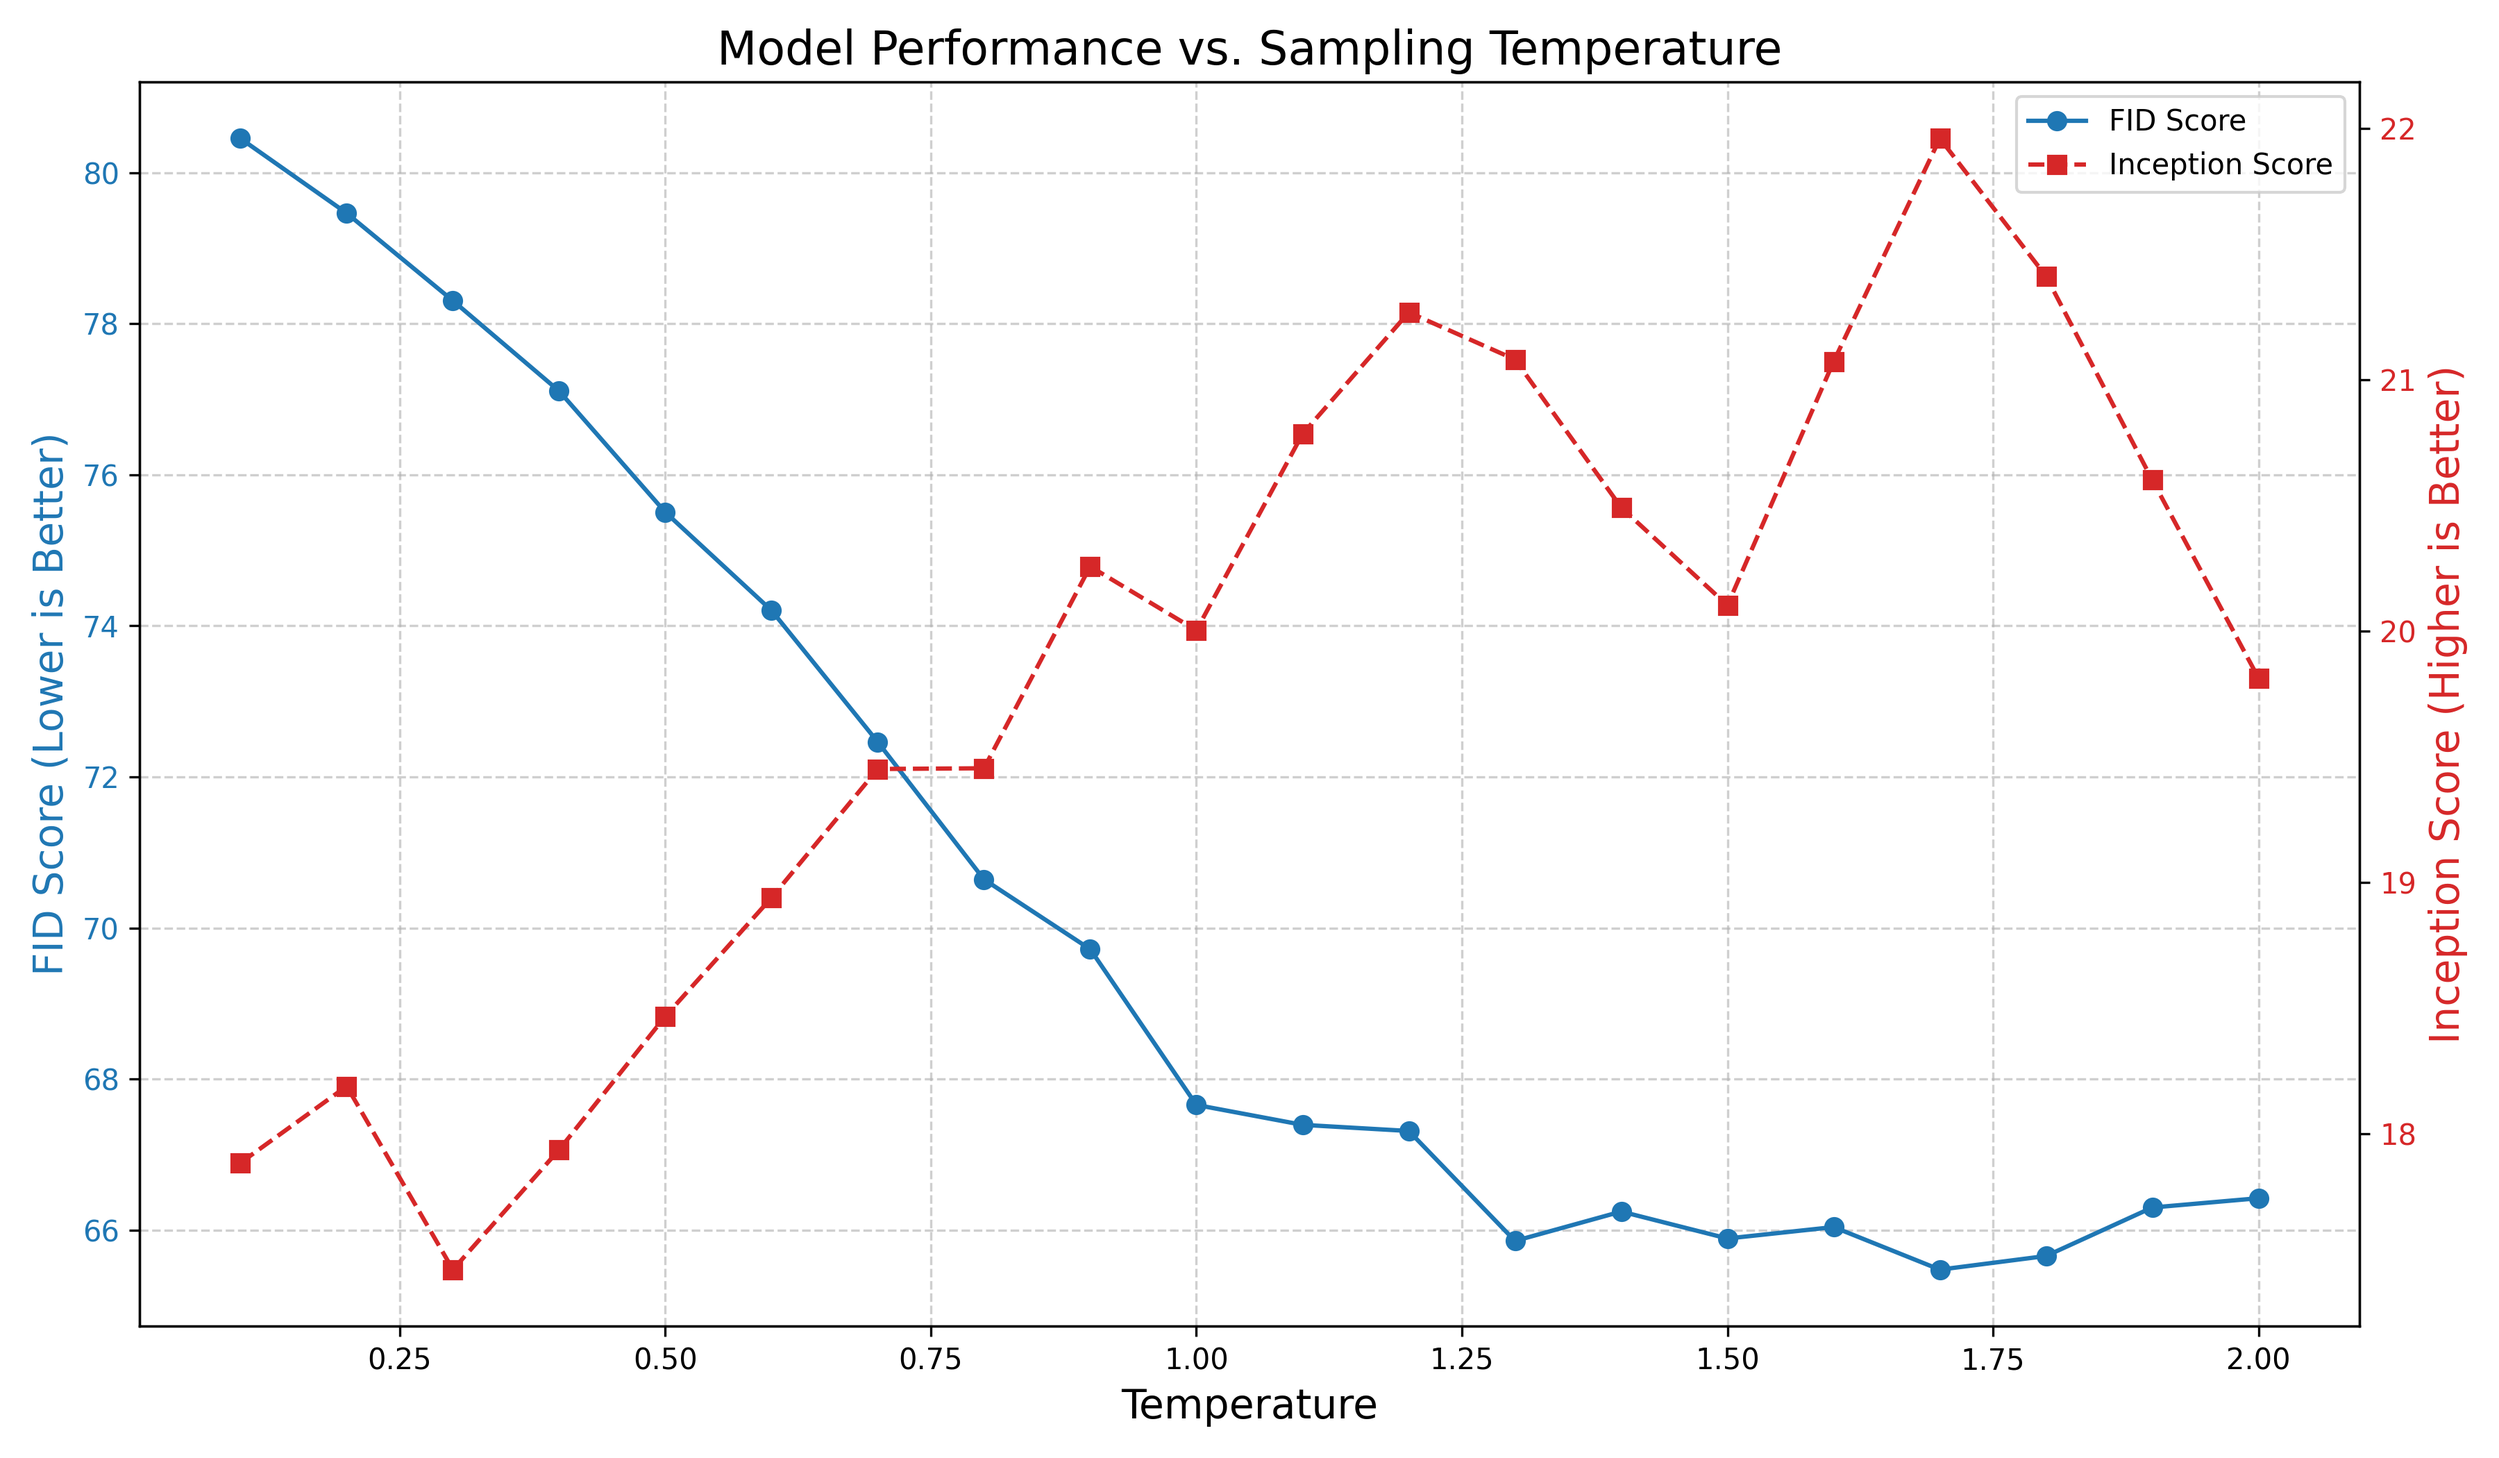
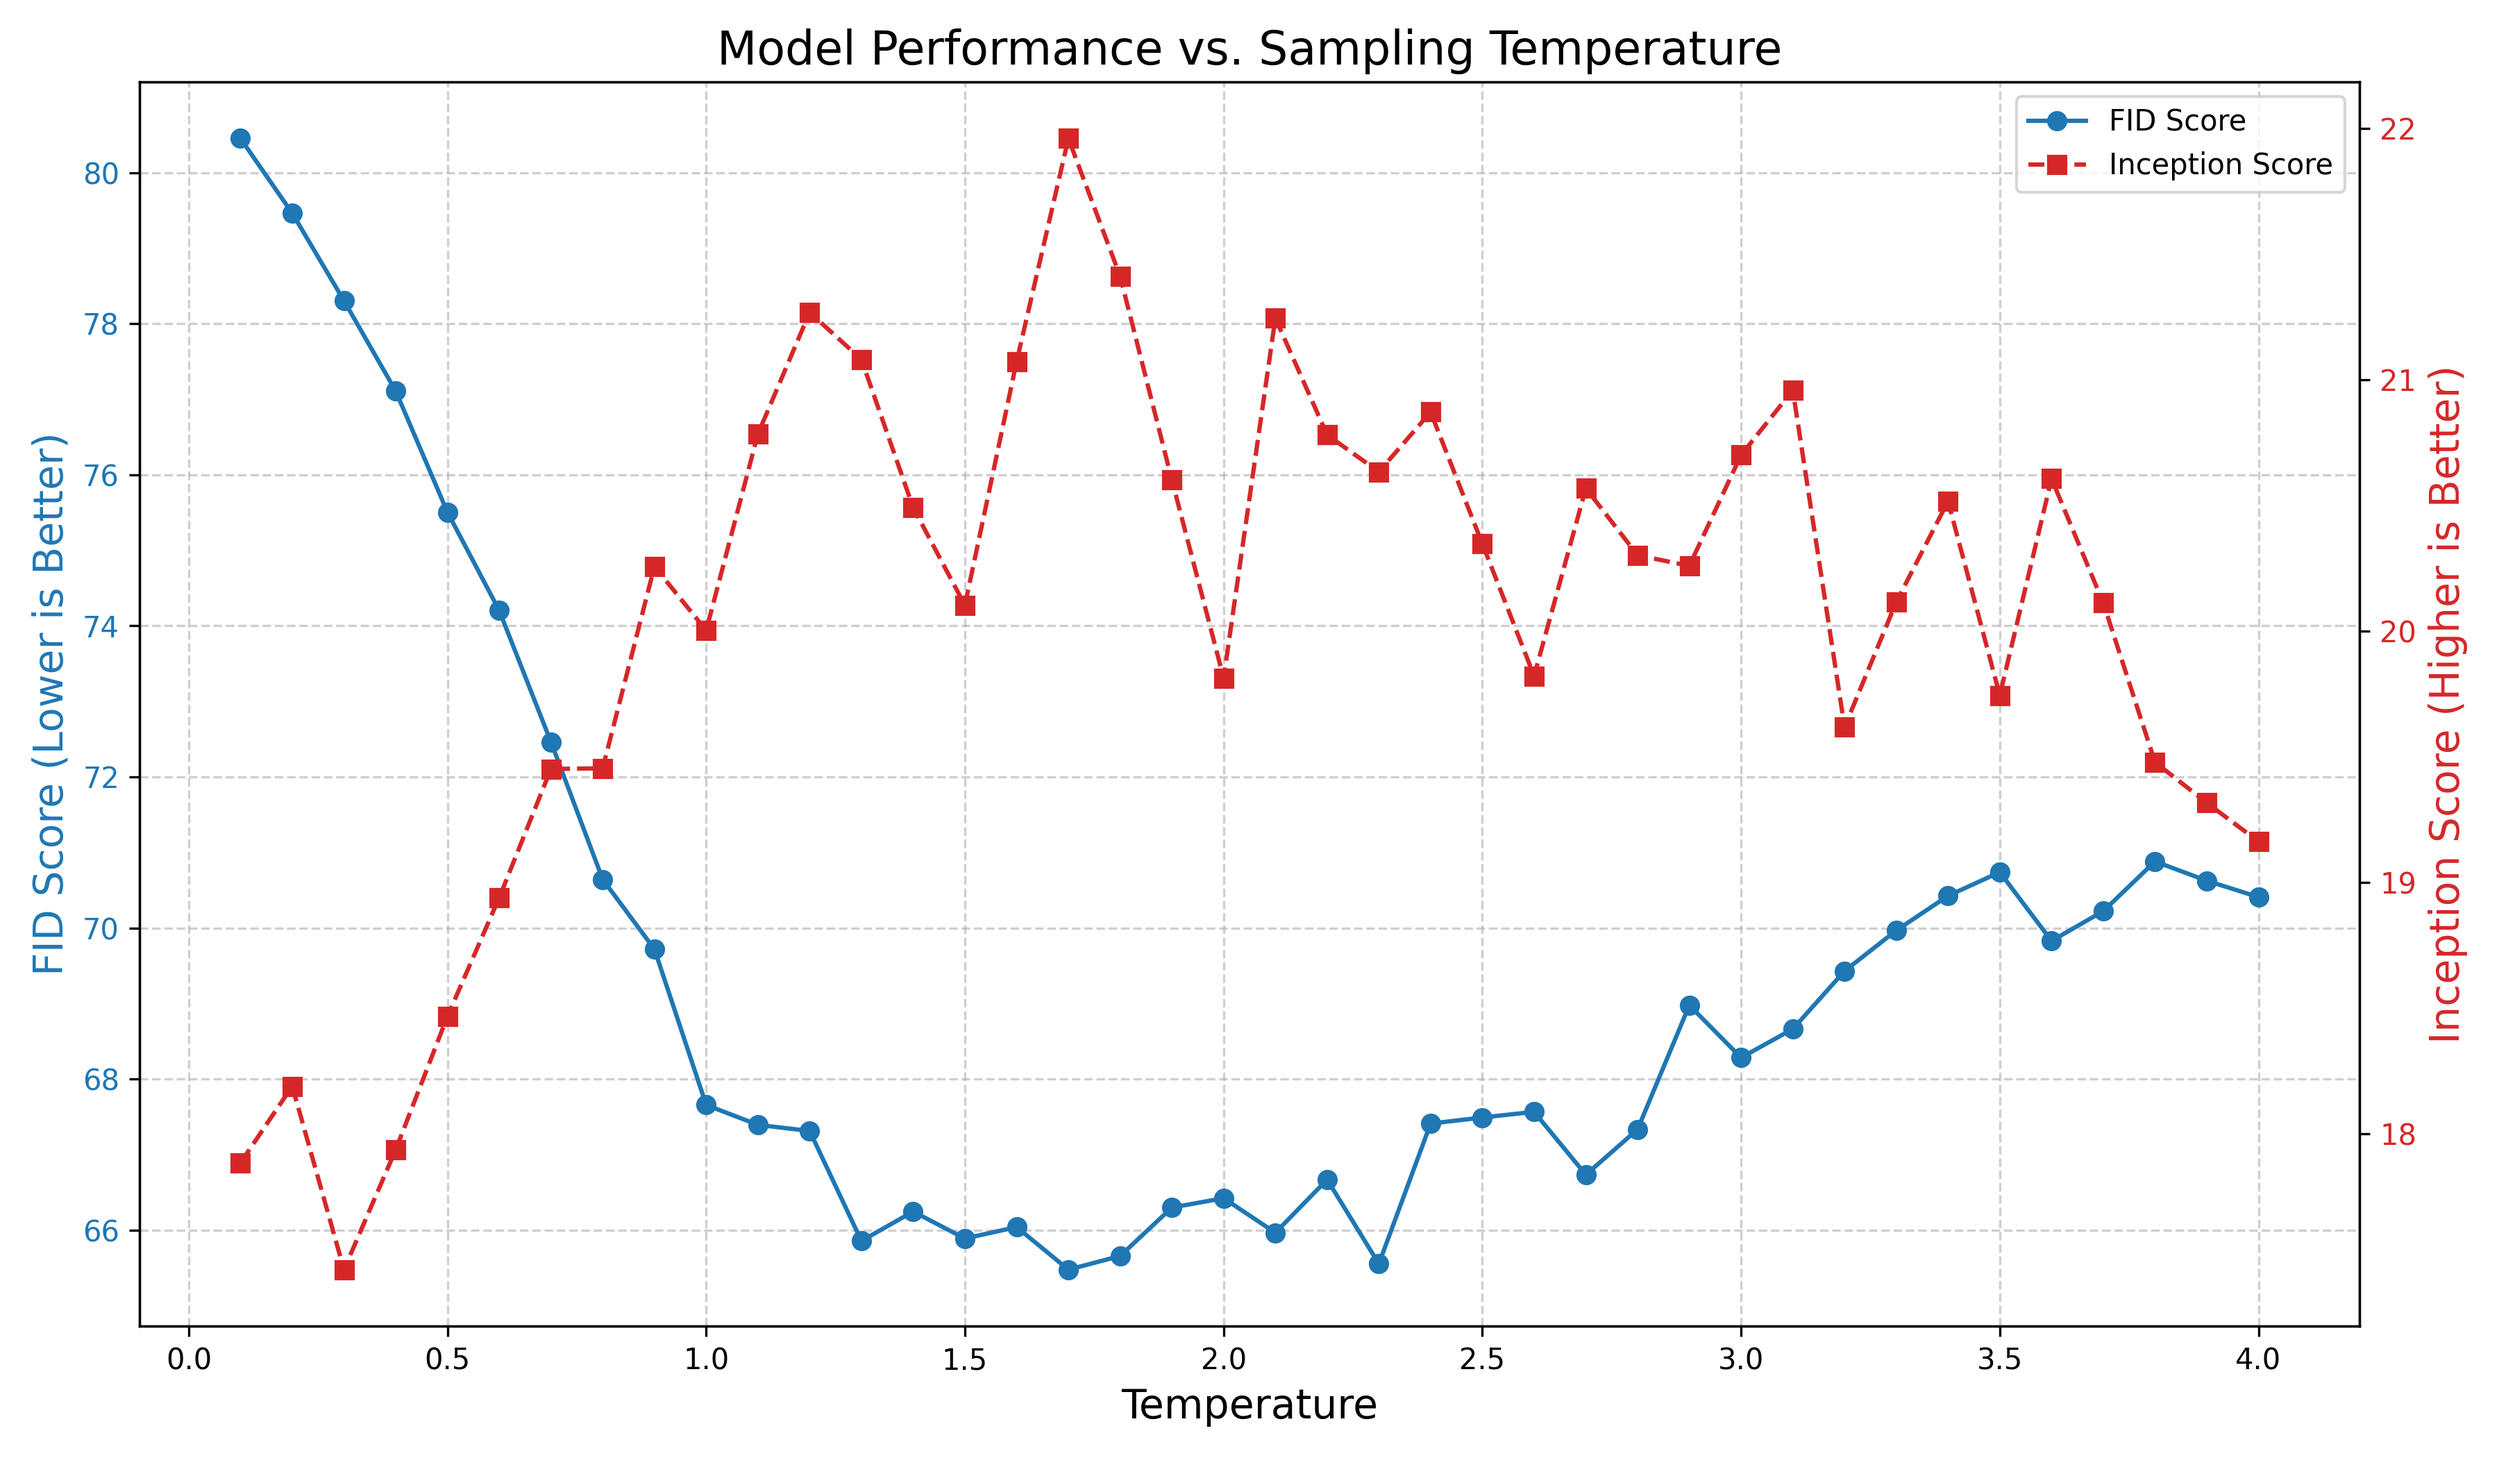
Update

diff --git a/download/draw_entropy.py b/download/draw_entropy.py
@@ -1,0 +1,94 @@
+import matplotlib.pyplot as plt
+import numpy as np
+import os
+
+# --- Configuration ---
+# The base paths where your temperature-specific folders are located.
+base_path_coco = "output_entro/256_coco_captions.txt_{temp}/entropy_results.txt"
+base_path_conceptual = "output_entro/256_conceptual.txt_{temp}/entropy_results.txt"
+
+# --- Data Reading and Processing ---
+# Lists for the COCO Captions dataset
+temperatures_coco = []
+entropies_coco = []
+
+# Lists for the Conceptual Captions dataset
+temperatures_conceptual = []
+entropies_conceptual = []
+
+# Generate a list of temperatures to check, from 0.1 to 4.0 with a step of 0.1
+temp_values_to_check = np.arange(0.1, 4.1, 0.1)
+
+print("Searching for entropy data files for both datasets...")
+
+# Helper function to read, parse, and scale the entropy file
+def read_entropy_from_file(file_path):
+    """Reads a single entropy value from a given file path and divides it by 256."""
+    try:
+        with open(file_path, 'r') as f:
+            line = f.readline()
+            if "Average Entropy:" in line:
+                # Extract the value, convert to float, and divide by 256
+                entropy_val = float(line.split("Average Entropy:")[1].strip())
+                return entropy_val / 256
+    except (IOError, ValueError) as e:
+        print(f"Could not read or parse file {file_path}: {e}")
+    return None
+
+# Loop through each temperature value to find and read the corresponding files
+for temp in temp_values_to_check:
+    temp_str = f"{temp:.1f}"
+
+    # --- Process COCO data ---
+    file_path_c = base_path_coco.format(temp=temp_str)
+    if os.path.exists(file_path_c):
+        entropy_val = read_entropy_from_file(file_path_c)
+        if entropy_val is not None:
+            temperatures_coco.append(temp)
+            entropies_coco.append(entropy_val)
+            print(f"Successfully read COCO data for temperature: {temp_str}")
+
+    # --- Process Conceptual data ---
+    file_path_n = base_path_conceptual.format(temp=temp_str)
+    if os.path.exists(file_path_n):
+        entropy_val = read_entropy_from_file(file_path_n)
+        if entropy_val is not None:
+            temperatures_conceptual.append(temp)
+            entropies_conceptual.append(entropy_val)
+            print(f"Successfully read Conceptual data for temperature: {temp_str}")
+
+
+# --- Plotting ---
+# Check if any data was successfully read before trying to plot
+if (temperatures_coco and entropies_coco) or (temperatures_conceptual and entropies_conceptual):
+    print("\nData found. Generating plot...")
+    plt.figure(figsize=(12, 7))
+
+    # Plot COCO data if it exists
+    if temperatures_coco and entropies_coco:
+        plt.plot(temperatures_coco, entropies_coco, marker='o', linestyle='-', color='b', label='COCO Captions')
+
+    # Plot Conceptual data if it exists
+    if temperatures_conceptual and entropies_conceptual:
+        plt.plot(temperatures_conceptual, entropies_conceptual, marker='s', linestyle='--', color='r', label='Conceptual Captions')
+
+    # Add labels and a title for clarity
+    plt.title('Average Model Entropy vs. Sampling Temperature', fontsize=16)
+    plt.xlabel('Temperature', fontsize=12)
+    # Update the Y-axis label to reflect the division
+    plt.ylabel('Average Entropy / 256', fontsize=12)
+
+    # Add a grid and a legend
+    plt.grid(True, which='both', linestyle='--', linewidth=0.5)
+    plt.legend(fontsize=12)
+
+    # Save the plot to a file
+    output_filename = 'entropy_vs_temperature_scaled_comparison.png'
+    plt.savefig(output_filename)
+
+    print(f"Plot successfully saved as {output_filename}")
+    # To display the plot in environments that support it:
+    # plt.show()
+else:
+    # Inform the user if no data was found
+    print("\nNo data was found to plot. Please ensure the file paths are correct and the files contain the expected data.")

diff --git a/download/draw.py b/download/draw.py
@@ -5,11 +5,11 @@ import matplotlib.pyplot as plt
 
 # --- Configuration ---
 # Directories where your result files are stored
-fid_results_dir = 'results_fid_conceptual'
-is_results_dir = 'results_is_conceptual'
+fid_results_dir = 'results_fid_coco'
+is_results_dir = 'results_is_coco'
 
 # Output file name for the plot
-output_plot_file = 'conceptual.png'
+output_plot_file = 'coco.png'
 # --- End of Configuration ---
 
 
@@ -41,7 +41,7 @@ def parse_score_file(filepath):
 
 
 # 1. Define the range of temperatures to plot
-temperatures = np.arange(0.1, 2.1, 0.1)
+temperatures = np.arange(0.1, 4.1, 0.1)
 
 # 2. Load the data from the text files
 fid_scores, fid_errors = [], []
